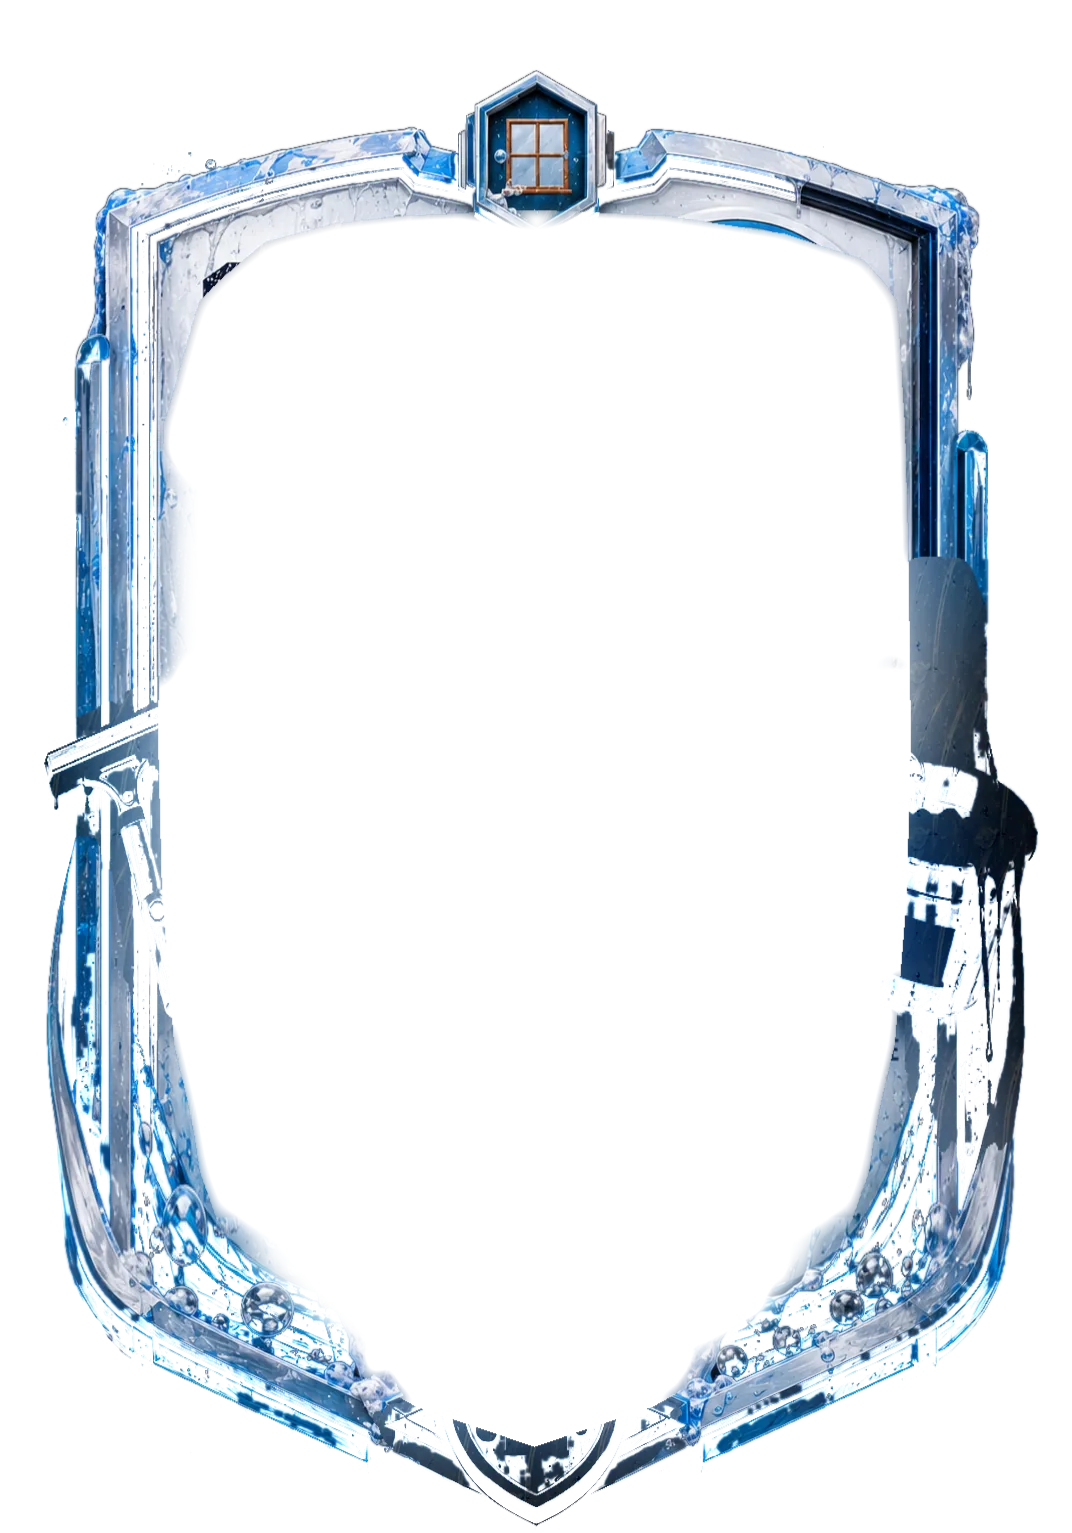
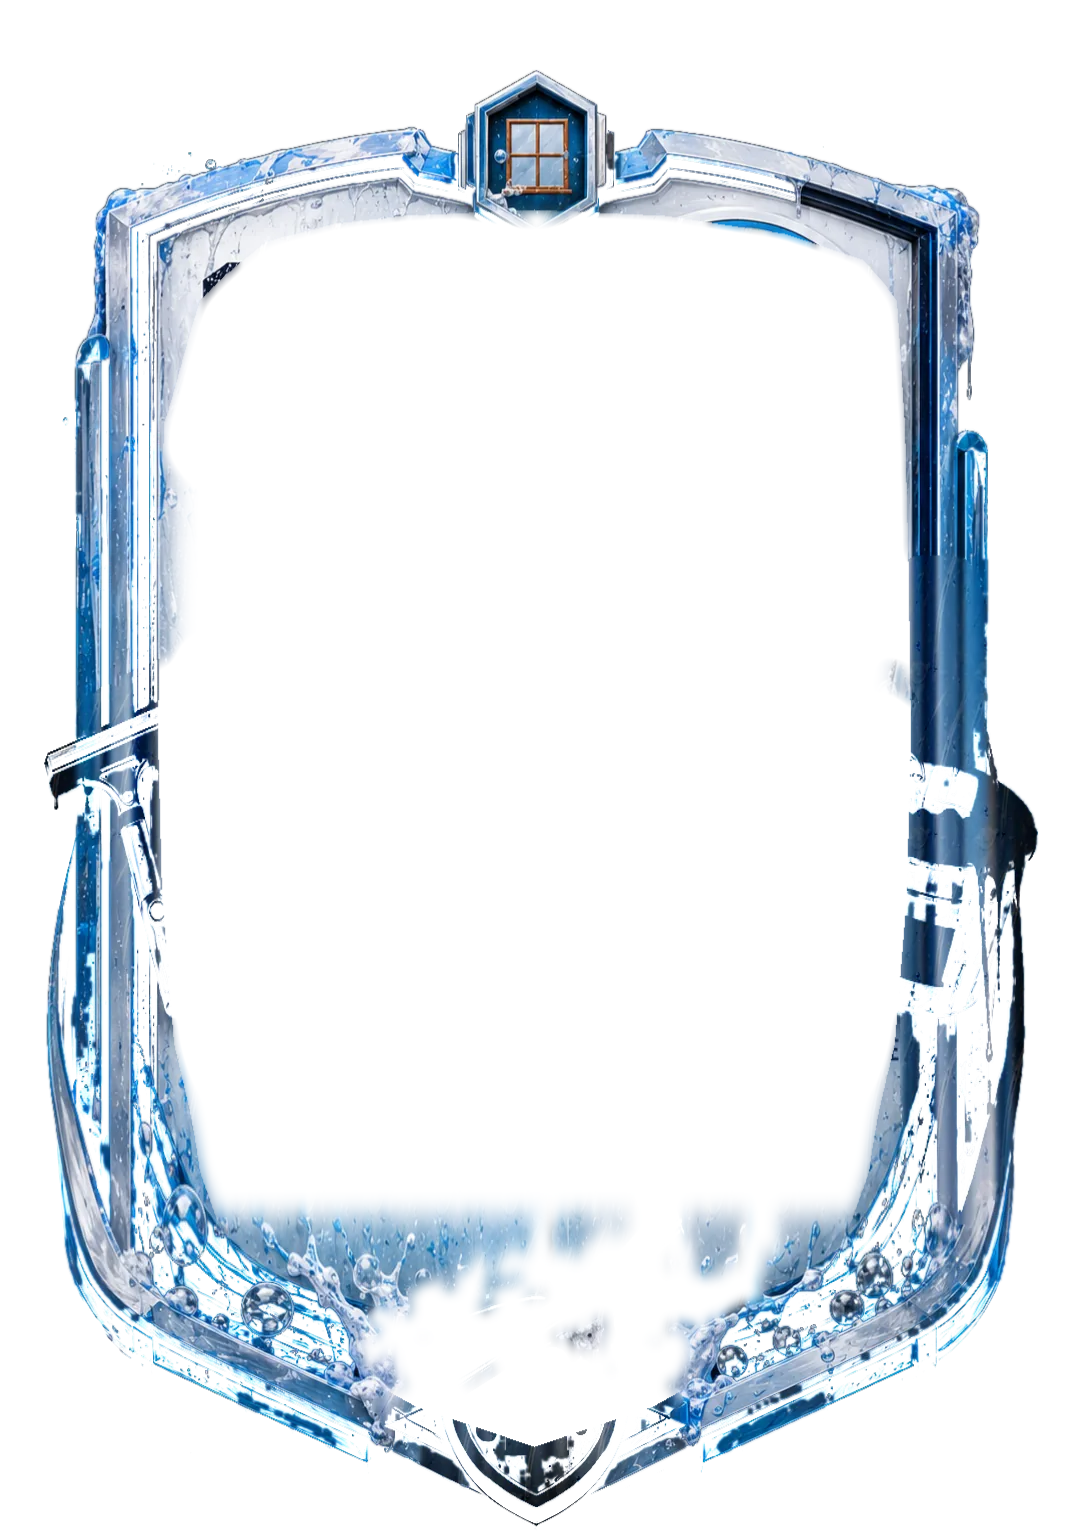
Glazenwasser: waterexplosie op volle kracht en een uitstekende trekker
- De interieursnede knipte ook de waterbogen weg waar die op de referentie
  over het glas spatten — daar kwam de vlakke, bleke onderkant vandaan. De
  waterexplosie is nu van de snede vrijgesteld; alleen de compacte master
  beperkt haar weer tot onder 80% kaarthoogte (leesbaarheid divisieregel).
- De gaten van de weggeknipte voorwerpen zitten voortaan op de ingebakken
  plek in plaats van op de weergavepositie: waar die twee uiteenliepen bleef
  een strook ingebakken voorwerp staan (de donkere rand onder de emmer). De
  vulling is verticaal (inpaint_verticaal): rails en glasstrepen zijn
  verticale structuren, zijwaarts vullen smeerde glas over de lijst.
- De trekker steekt nu als op de referentie met zijn blad buiten het schild
  (schaal 1,12, verzet −0,035) — blad en steel houden dezelfde lengtebalans
  op de smallere kaart. Doordat de gaten vast liggen mag de layout voorwerpen
  vrij schuiven en schalen; de compacte master volgt dezelfde tabel.

Claude-Session: https://claude.ai/code/session_01LF6PJyL4wgg3AKab68Jdvo

diff --git a/src/features/rating/components/glazenwasser/glazenwasserLayout.ts b/src/features/rating/components/glazenwasser/glazenwasserLayout.ts
@@ -168,18 +168,18 @@ export const GW_LAGEN: readonly GwLaag[] = [
     voorbewerkt: true,
     z: 40,
   },
-  // Trekker schuin langs de linkerflank: lager en forser dan op de referentie,
-  // zodat hij de langere flank vult en zijn blad buiten het schild komt.
+  // Trekker schuin langs de linkerflank: iets forser dan de referentie en met
+  // zijn blad búiten het schild, zoals daar — blad en steel houden dan
+  // dezelfde visuele lengte-balans op de smallere kaart. Het gat in de ring
+  // zit op de ingebakken plek en wordt gevuld, dus de trekker mag hier vrij
+  // schuiven en schalen.
   {
     naam: "leftSqueegee",
     schaduw: 0.004,
     bron: "trekker-boven",
     doel: doos("trekker-boven"),
-    // Op referentiemaat en -plek. De vergroting en de verschuiving omlaag
-    // compenseerden een uitsnede die bij de ferrule ophield; met de steel erbij
-    // zet dat het blad juist bovenop de glaslat en de naam. De hoek zit al in de
-    // pixels, dus er hoeft ook niets gedraaid te worden.
-    verzet: [0.0, 0.012],
+    schaal: 1.12,
+    verzet: [-0.035, 0.012],
     z: 70,
   },
   // Haak met ketting waar de emmer aan hangt; die moet aan de lijst vastzitten,

diff --git a/scripts/glazenwasser-onderdelen.py b/scripts/glazenwasser-onderdelen.py
@@ -532,6 +532,41 @@ def natglas(overlap: int = 24) -> None:
     DELEN["glas"]["tegel"] = True
 
 
+def inpaint_verticaal(rgb: np.ndarray, bekend: np.ndarray,
+                      zacht: float = 2.5) -> np.ndarray:
+    """Vult onbekende plekken per kolom, uit wat er boven en onder staat.
+
+    De gaten van de weggeknipte voorwerpen liggen grotendeels op de rails, en
+    een rail is een verticale extrusie: de dichtstbijzijnde-buur-vulling van
+    `inpaint` pakte zijwaarts het bleke glas en smeerde dat over de lijst —
+    de witte veeg naast de emmer. Boven-onder mengen naar afstand zet de rail
+    (en de verticale glasstrepen) gewoon door."""
+    h, w = bekend.shape
+    rijen = np.arange(h)[:, None].repeat(w, 1)
+    boven_i = np.where(bekend, rijen, -1)
+    boven_i = np.maximum.accumulate(boven_i, axis=0)
+    onder_i = np.where(bekend, rijen, 2 * h)
+    onder_i = np.minimum.accumulate(onder_i[::-1], axis=0)[::-1]
+    kol = np.arange(w)[None, :].repeat(h, 0)
+    b_ok, o_ok = boven_i >= 0, onder_i < h
+    b_i = np.clip(boven_i, 0, h - 1)
+    o_i = np.clip(onder_i, 0, h - 1)
+    d_b = np.abs(rijen - b_i).astype(np.float32)
+    d_o = np.abs(o_i - rijen).astype(np.float32)
+    # Gewicht naar afstand; een kant zonder bekende pixel telt niet mee.
+    w_b = np.where(b_ok, 1.0 / (d_b + 1.0), 0.0)
+    w_o = np.where(o_ok, 1.0 / (d_o + 1.0), 0.0)
+    som = np.maximum(w_b + w_o, 1e-6)
+    vul = (
+        rgb[b_i, kol] * (w_b / som)[..., None]
+        + rgb[o_i, kol] * (w_o / som)[..., None]
+    )
+    week = np.stack(
+        [vervaag(vul[..., k] / 255.0, zacht) * 255.0 for k in range(3)], -1
+    )
+    return np.where(bekend[..., None], rgb, week)
+
+
 def inpaint(rgb: np.ndarray, bekend: np.ndarray, zacht: float = 40.0) -> np.ndarray:
     """Vult onbekende plekken met de dichtstbijzijnde omgeving, ruim uitgesmeerd.
 
@@ -628,19 +663,15 @@ def kaartring() -> None:
     # voorwerp niet afdekt — een bleke schim in de vorm van het gereedschap. Het
     # gat schuift bovendien mee met de verschuiving die de laag in
     # `glazenwasserLayout.ts` krijgt, zodat voorwerp en gat samenvallen.
-    VERZET = {                      # kaartfracties, gelijk aan GW_LAGEN
-        "trekker-boven": (0.0, 0.012),
-        "ophanging": (0.0, 0.0),
-        "emmer": (0.004, -0.022),
-        "onderschild": (0.0, 0.012),
-    }
+    # Gaten op de plek waar het voorwerp in de referentie gebakken zit — níét
+    # op de weergavepositie. Toen het gat met het `verzet` van de layout
+    # meeschoof, bleef er waar de twee uiteenlopen een rand ingebakken voorwerp
+    # in de ring staan (de donkere strook onder de emmer, die 0,022 omhoog
+    # wordt weergegeven). Het gat wordt gevuld door de inpaint, dus de layout
+    # mag een voorwerp voortaan vrij schuiven of schalen.
     weg = np.zeros_like(luma)
-    for naam, (dx, dy) in VERZET.items():
-        # Krap om het voorwerp: het gat moet kleiner zijn dan wat er overheen
-        # komt. Ruimer betekent een opgevulde rand die het voorwerp niet afdekt,
-        # en dat is precies de bleke halo die eromheen bleef hangen.
-        vorm = dilate(VOL_ALFA[naam] > 0.25, 2).astype(np.float32)
-        vorm = np.roll(vorm, (int(round(dy * RH)), int(round(dx * RW))), (0, 1))
+    for naam in ("trekker-boven", "ophanging", "emmer", "onderschild"):
+        vorm = dilate(VOL_ALFA[naam] > 0.25, 3).astype(np.float32)
         weg = np.maximum(weg, vervaag(vorm, 2.0))
 
     # De ingebakken kaarttekst. De poort is het glaspaneel zónder erosie en
@@ -659,7 +690,9 @@ def kaartring() -> None:
     tekst = tekst * binnen * (1.0 - crest_metaal)
 
     onbekend = np.maximum(weg, tekst) > 0.35
-    laag = inpaint(BRON.rgb, ~onbekend)
+    # Verticaal gevuld: de gaten liggen op rails en gestreept glas, allebei
+    # verticale structuren — zijwaarts vullen smeerde glas over de lijst.
+    laag = inpaint_verticaal(BRON.rgb, ~onbekend)
     tegel = np.asarray(
         Image.open(UIT / "gw-glas.webp").convert("RGB")
     ).astype(np.float32)
@@ -702,6 +735,12 @@ def kaartring() -> None:
     # `glasvlak()` zelf.
     diep = erode(kern_glas, 14)
     binnenvlak = vervaag(diep.astype(np.float32), 10.0)
+    # De waterexplosie is van de snede vrijgesteld: haar bogen spatten op de
+    # referentie tot diep óver het glas en dat is precies wat de onderkant zijn
+    # drama geeft — met de snede erover bleef er een vlakke, bleke rand over.
+    # De compacte master beperkt het water zelf weer (leesbaarheid van de
+    # divisieregel); hier hoort het er vol op te staan.
+    binnenvlak = binnenvlak * (1.0 - BRON.contour(WATER_ONDER, 10.0))
     # Inpaint-zones doven ook in de band uit: een spook in de rand is nog
     # steeds een spook. Het gat valt op de kaart dicht — de echte voorwerpen
     # staan er bovenop en het glasvlak ligt eronder.
@@ -763,15 +802,16 @@ def kaartring() -> None:
 MASTER_DOEK = (1024, 1440)
 MASTER_VAK = (72, 160, 880, 1223)
 
-# Verschuiving per voorwerp, gelijk aan `verzet` in GW_LAGEN. Zelfde tabel als in
-# `kaartring()`; staat hier apart zodat de compacte master exact dezelfde
-# compositie oplevert als de brede kaart.
+# Weergave per voorwerp — (dx, dy, schaal), gelijk aan `verzet`/`schaal` in
+# GW_LAGEN, zodat de compacte master exact dezelfde compositie oplevert als de
+# brede kaart. De gaten in de ring zitten op de ingebakken plekken en worden
+# gevuld, dus deze tabel mag vrij afwijken van de referentie.
 MASTER_LAGEN = (
     # naam, z-volgorde
-    ("ophanging", (0.0, 0.0)),
-    ("trekker-boven", (0.0, 0.012)),
-    ("emmer", (0.004, -0.022)),
-    ("onderschild", (0.0, 0.012)),
+    ("ophanging", (0.0, 0.0, 1.0)),
+    ("trekker-boven", (-0.035, 0.012, 1.12)),
+    ("emmer", (0.004, -0.022, 1.0)),
+    ("onderschild", (0.0, 0.012, 1.0)),
 )
 
 
@@ -997,21 +1037,55 @@ def compacte_master() -> None:
     # vóór de kaartinhoud komen.
     boven = Image.new("RGBA", MASTER_DOEK, (0, 0, 0, 0))
 
-    def plaats(pad: Path, vak: tuple[float, float, float, float]) -> None:
+    def plaats(pad: Path, vak: tuple[float, float, float, float],
+               schaal: float = 1.0,
+               masker: np.ndarray | None = None) -> None:
         left, top, breedte, hoogte = vak
-        b = max(1, int(round(breedte * vw)))
-        h = max(1, int(round(hoogte * vh)))
+        left -= breedte * (schaal - 1.0) / 2.0
+        top -= hoogte * (schaal - 1.0) / 2.0
+        b = max(1, int(round(breedte * schaal * vw)))
+        h = max(1, int(round(hoogte * schaal * vh)))
         laag = Image.open(pad).convert("RGBA").resize((b, h), Image.LANCZOS)
-        boven.alpha_composite(
-            laag, (int(round(vx + left * vw)), int(round(vy + top * vh)))
-        )
+        px, py = int(round(vx + left * vw)), int(round(vy + top * vh))
+        if masker is None:
+            boven.alpha_composite(laag, (px, py))
+            return
+        # Masker op doekmaat: eerst op een eigen doek zetten (PIL knipt de
+        # overloop), dan de doek-alfa vermenigvuldigen.
+        tdoek = Image.new("RGBA", MASTER_DOEK, (0, 0, 0, 0))
+        tdoek.alpha_composite(laag, (max(0, px), max(0, py)))
+        a = np.asarray(tdoek.split()[3]).astype(np.float32) * masker
+        tdoek.putalpha(Image.fromarray(np.clip(a, 0, 255).astype(np.uint8)))
+        boven.alpha_composite(tdoek)
 
-    plaats(UIT / "gw-ring.webp", DELEN["ring"]["doos"])
-    for naam, (dx, dy) in MASTER_LAGEN:
+    # De ring komt hier met de leesbaarheidssnede van de compacte kaart: binnen
+    # de glascontour blijft alleen de smalle natte band, en de waterexplosie
+    # alleen ónder 80% kaarthoogte. Boven die lijn spatten de bogen op de brede
+    # kaart vol over het glas — maar hier tekent FutKaart daar zijn
+    # divisieregel, en op 0,72 was "GLAZENWASSER" al eens onleesbaar.
+    poly = Image.new("L", MASTER_DOEK, 0)
+    ImageDraw.Draw(poly).polygon(
+        [
+            (vx + (x - RX0) / RW * vw, vy + _naar_kaart_y((y - RY0) / RH) * vh)
+            for x, y in GLAS_BINNEN
+        ],
+        fill=255,
+    )
+    pm = np.asarray(poly) > 127
+    snede = erode(pm, 12).astype(np.float32)
+    snede[int(vy + 0.80 * vh):] = 0.0
+    snede = np.asarray(
+        Image.fromarray((snede * 255).astype(np.uint8), "L")
+        .filter(ImageFilter.GaussianBlur(7.0))
+    ).astype(np.float32) / 255.0
+    plaats(UIT / "gw-ring.webp", DELEN["ring"]["doos"], masker=1.0 - snede)
+
+    for naam, (dx, dy, schaal) in MASTER_LAGEN:
         left, top, breedte, hoogte = DELEN[naam]["doos"]
         plaats(
             UIT / f"gw-{naam}.webp",
             (left + dx, _naar_kaart_y(top) + dy, breedte, naar_kaart_h(hoogte)),
+            schaal=schaal,
         )
 
     # Het natte glas als onderste laag, strak binnen de glascontour; ring en
